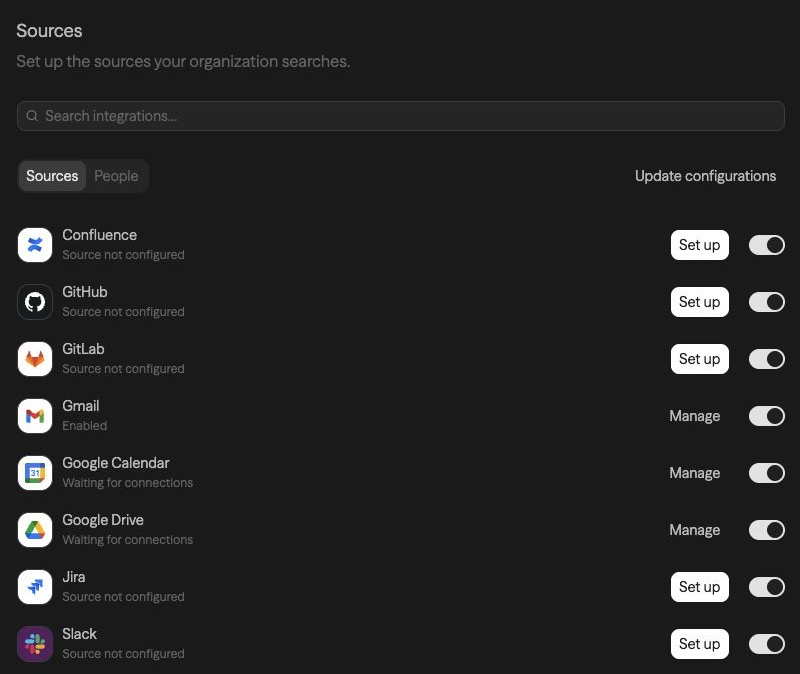
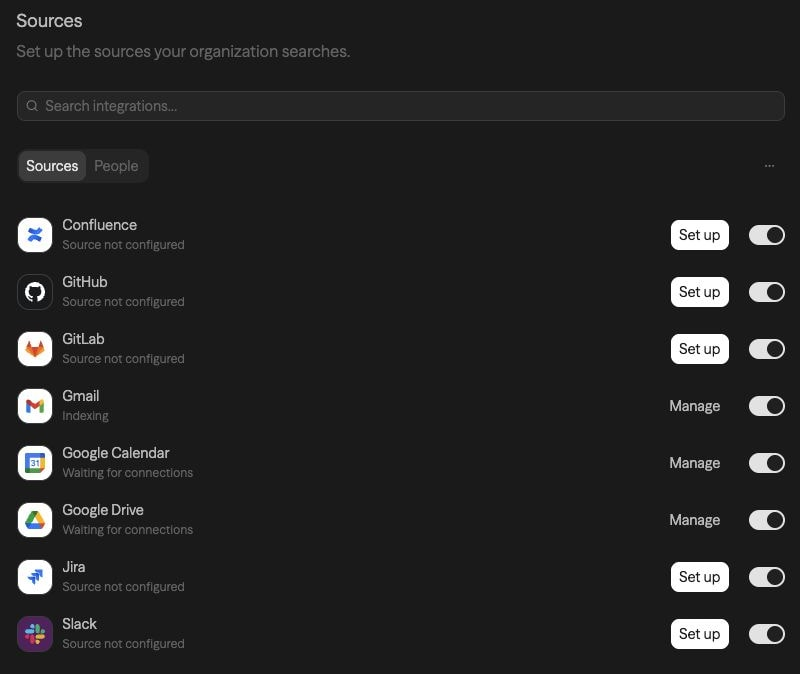
fix(search): clarify source settings and permission updates

diff --git a/apps/sim/app/o/[organizationId]/settings/components/integrations/organization-integrations-settings.test.tsx b/apps/sim/app/o/[organizationId]/settings/components/integrations/organization-integrations-settings.test.tsx
@@ -13,6 +13,8 @@ const mocks = vi.hoisted(() => ({
   refetch: vi.fn(),
   update: vi.fn(),
   updatePending: false,
+  updateError: null as Error | null,
+  resetUpdate: vi.fn(),
 }))
 vi.mock('@/app/o/[organizationId]/providers/organization-provider', () => ({
   useOrganizationContext: mocks.context,
@@ -23,7 +25,12 @@ vi.mock(
 )
 vi.mock('@/hooks/queries/organization-accounts', () => ({
   useOrganizationAccounts: mocks.accounts,
-  useUpdateOrganizationAccounts: () => ({ mutate: mocks.update, isPending: mocks.updatePending }),
+  useUpdateOrganizationAccounts: () => ({
+    mutate: mocks.update,
+    isPending: mocks.updatePending,
+    error: mocks.updateError,
+    reset: mocks.resetUpdate,
+  }),
   useOrganizationAccountPeople: mocks.people,
   useInviteOrganizationAccountPeople: () => ({ mutateAsync: mocks.invite, reset: vi.fn() }),
   useResendOrganizationAccountInvitation: () => ({}),
@@ -42,6 +49,7 @@ describe('organization integration invitations', () => {
     vi.spyOn(toast, 'success').mockReturnValue('toast-id')
     vi.spyOn(toast, 'error').mockReturnValue('toast-id')
     mocks.updatePending = false
+    mocks.updateError = null
     vi.stubGlobal('IS_REACT_ACT_ENVIRONMENT', true)
     mocks.context.mockReturnValue({ organization: { id: 'org-a' }, viewer: { isAdmin: true } })
     mocks.accounts.mockReturnValue({
@@ -85,7 +93,7 @@ describe('organization integration invitations', () => {
 
   function findButton(label: string) {
     const button = Array.from(document.querySelectorAll('button')).find(
-      (element) => element.textContent === label
+      (element) => element.textContent === label || element.getAttribute('aria-label') === label
     )
     if (!button) throw new Error(`Missing ${label} button`)
     return button
@@ -93,6 +101,19 @@ describe('organization integration invitations', () => {
 
   async function click(label: string) {
     await act(async () => findButton(label).click())
+  }
+
+  async function openRefresh() {
+    expect(container.textContent).not.toContain('Update configurations')
+    await act(async () =>
+      findButton('More source actions').dispatchEvent(
+        new MouseEvent('pointerdown', { bubbles: true, button: 0 })
+      )
+    )
+    const item = document.querySelector<HTMLElement>('[role="menuitem"]')
+    expect(item?.textContent).toBe('Refresh connection settings')
+    await act(async () => item?.click())
+    expect(document.body.textContent).toContain('Affected accounts will need to reconnect.')
   }
 
   it('keeps provider setup as the default and sends manual invitations from People to this org', async () => {
@@ -124,7 +145,7 @@ describe('organization integration invitations', () => {
     expect(document.querySelector('[role="dialog"]')).toBeNull()
   })
 
-  it('refreshes saved provider identities from Sources and reports the outcome', async () => {
+  it('refreshes saved provider identities only after choosing the maintenance action and confirming', async () => {
     mocks.accounts.mockReturnValue({
       data: {
         credentialGroup: {
@@ -151,7 +172,8 @@ describe('organization integration invitations', () => {
     })
     mocks.update.mockImplementationOnce((_input, { onSuccess }) => onSuccess())
     await render()
-    await click('Update configurations')
+    await openRefresh()
+    await click('Refresh')
     expect(mocks.update).toHaveBeenCalledWith(
       {
         organizationId: 'org-a',
@@ -176,24 +198,32 @@ describe('organization integration invitations', () => {
       },
       expect.any(Object)
     )
-    expect(toast.success).toHaveBeenCalledWith('Provider configurations updated')
+    expect(toast.success).toHaveBeenCalledWith('Connection settings refreshed')
 
-    mocks.update.mockImplementationOnce((_input, { onError }) =>
-      onError(new Error('Update denied'))
-    )
-    await click('Update configurations')
-    expect(toast.error).toHaveBeenCalledWith('Update denied')
-
-    mocks.updatePending = true
-    await render()
-    expect(findButton('Update configurations')).toBeDisabled()
-    await click('Update configurations')
-    expect(mocks.update).toHaveBeenCalledTimes(2)
+    expect(document.querySelector('[role="dialog"]')).toBeNull()
   })
 
-  it('does not offer a configuration update without saved providers', async () => {
+  it('keeps failed refreshes open for retry and blocks duplicate submissions', async () => {
+    mocks.accounts.mockReturnValue({
+      data: { credentialGroup: { id: 'group-a', options: [{ provider: 'gmail' }] } },
+      error: null,
+    })
     await render()
-    expect(container.textContent).not.toContain('Update configurations')
+    await openRefresh()
+    await click('Refresh')
+    mocks.updateError = new Error('Update denied')
+    await render()
+    expect(document.body.textContent).toContain('Update denied')
+    expect(document.querySelector('[role="dialog"]')).not.toBeNull()
+    mocks.updatePending = true
+    await render()
+    expect(findButton('Refresh')).toBeDisabled()
+    expect(mocks.update).toHaveBeenCalledOnce()
+  })
+
+  it('does not offer maintenance without saved providers', async () => {
+    await render()
+    expect(container.querySelector('[aria-label="More source actions"]')).toBeNull()
   })
 
   it('opens People directly from the saved URL', async () => {

diff --git a/apps/sim/app/api/auth/oauth/credentials/route.test.ts b/apps/sim/app/api/auth/oauth/credentials/route.test.ts
@@ -38,6 +38,7 @@ vi.mock('@/lib/workspaces/permissions/utils', () => permissionsMock)
 
 vi.mock('@/lib/permission-groups/config-scope.server', () => permissionGroupScopeMock)
 
+import { getCanonicalScopesForProvider, getMissingRequiredScopes } from '@/lib/oauth/utils'
 import { DEFAULT_PERMISSION_GROUP_CONFIG } from '@/lib/permission-groups/fields'
 import { GET } from '@/app/api/auth/oauth/credentials/route'
 
@@ -144,6 +145,100 @@ describe('OAuth Credentials API Route', () => {
 
     expect(response.status).toBe(200)
     await expect(response.json()).resolves.toEqual({ credentials: [] })
+  })
+
+  describe.each(['list', 'detail'] as const)('OAuth grant scopes in %s responses', (mode) => {
+    const workspaceId = '3f1c8a54-1c2e-4a1b-9d6e-2b7c5a9f0e11'
+
+    beforeEach(() => {
+      hybridAuthMockFns.mockCheckSessionOrInternalAuth.mockReset().mockResolvedValue({
+        success: true,
+        userId: 'user-123',
+        authType: 'session',
+      })
+      permissionsMockFns.mockCheckWorkspaceAccess.mockResolvedValue({
+        exists: true,
+        hasAccess: true,
+        canWrite: true,
+        canAdmin: true,
+      })
+      permissionGroupScopeMockFns.mockResolvePermissionGroupConfig.mockResolvedValue(
+        DEFAULT_PERMISSION_GROUP_CONFIG
+      )
+    })
+
+    async function requestCredential(providerId: string, scope: string | null) {
+      const row = {
+        id: 'credential-1',
+        workspaceId,
+        type: 'oauth',
+        displayName: 'Connected account',
+        providerId,
+        accountId: 'account-1',
+        scope,
+        updatedAt: new Date('2026-01-01T00:00:00Z'),
+        accountProviderId: providerId,
+        accountScope: scope,
+        accountUpdatedAt: new Date('2026-01-01T00:00:00Z'),
+      }
+      if (mode === 'detail') {
+        dbChainMockFns.limit.mockResolvedValueOnce([row])
+      } else {
+        dbChainMockFns.where.mockResolvedValueOnce([row]).mockResolvedValueOnce([])
+      }
+      const query =
+        mode === 'detail'
+          ? '?credentialId=credential-1'
+          : `?provider=${providerId}&workspaceId=${workspaceId}`
+      const response = await GET(createMockRequestWithQuery('GET', query))
+      expect(response.status).toBe(200)
+      const data = await response.json()
+      expect(data.credentials).toHaveLength(1)
+      return data.credentials[0]
+    }
+
+    it.each([null, '', ' \t\n '])(
+      'does not synthesize a Confluence grant from missing scope metadata %j',
+      async (scope) => {
+        const credential = await requestCredential('confluence', scope)
+
+        expect(credential.scopes).toEqual([])
+        expect(
+          getMissingRequiredScopes(credential, getCanonicalScopesForProvider('confluence'))
+        ).toContain('read:group:confluence')
+      }
+    )
+
+    it('preserves the actual older Confluence grant and identifies missing group access', async () => {
+      const requiredScopes = getCanonicalScopesForProvider('confluence')
+      const previousGrant = requiredScopes.filter((scope) => scope !== 'read:group:confluence')
+      const credential = await requestCredential('confluence', previousGrant.join(','))
+
+      expect(credential.scopes).toEqual(previousGrant)
+      expect(getMissingRequiredScopes(credential, requiredScopes)).toEqual([
+        'read:group:confluence',
+      ])
+    })
+
+    it('preserves a complete Confluence grant without requesting another update', async () => {
+      const grantedScopes = getCanonicalScopesForProvider('confluence')
+      const credential = await requestCredential('confluence', grantedScopes.join(' '))
+
+      expect(credential.scopes).toEqual(grantedScopes)
+      expect(getMissingRequiredScopes(credential, grantedScopes)).toEqual([])
+    })
+
+    it.each([null, '', ' \t\n '])(
+      'preserves the Box omitted-scope fallback for %j',
+      async (scope) => {
+        const credential = await requestCredential('box', scope)
+        const requiredScopes = getCanonicalScopesForProvider('box')
+
+        expect(requiredScopes.length).toBeGreaterThan(0)
+        expect(credential.scopes).toEqual(requiredScopes)
+        expect(getMissingRequiredScopes(credential, requiredScopes)).toEqual([])
+      }
+    )
   })
 
   /** The session/executor split documented on {@link integrationsWithheldFromSession} in the route. */

diff --git a/apps/sim/app/o/[organizationId]/settings/components/integrations/organization-integrations-settings.tsx b/apps/sim/app/o/[organizationId]/settings/components/integrations/organization-integrations-settings.tsx
@@ -1,11 +1,13 @@
 'use client'
 
-import { Chip, ChipSwitch, toast } from '@sim/emcn'
+import { useState } from 'react'
+import { Chip, ChipConfirmModal, ChipModalError, ChipSwitch, toast } from '@sim/emcn'
 import { useQueryState } from 'nuqs'
 import { getOrganizationAccountUpdateOptions } from '@/lib/credential-groups/organization-account-options'
 import { useOrganizationContext } from '@/app/o/[organizationId]/providers/organization-provider'
 import { OrganizationIntegrationsSetup } from '@/app/o/[organizationId]/settings/components/integrations/organization-integrations-setup'
 import { organizationIntegrationsTabParam } from '@/app/o/[organizationId]/settings/components/integrations/search-params'
+import { RowActionsMenu } from '@/app/workspace/[workspaceId]/settings/components/row-actions-menu'
 import {
   SettingsEmptyState,
   SettingsQueryErrorState,
@@ -24,8 +26,9 @@ export function OrganizationIntegrationsSettings() {
   )
   const accounts = useOrganizationAccounts(viewer.isAdmin ? organization.id : undefined)
   const update = useUpdateOrganizationAccounts()
+  const [refreshOpen, setRefreshOpen] = useState(false)
   const group = accounts.data?.credentialGroup
-  const updateConfigurations = () => {
+  const refreshConnections = () => {
     if (!group || update.isPending) return
     update.mutate(
       {
@@ -34,8 +37,10 @@ export function OrganizationIntegrationsSettings() {
         update: { options: getOrganizationAccountUpdateOptions(group) },
       },
       {
-        onSuccess: () => toast.success('Provider configurations updated'),
-        onError: (error) => toast.error(error.message),
+        onSuccess: () => {
+          setRefreshOpen(false)
+          toast.success('Connection settings refreshed')
+        },
       }
     )
   }
@@ -54,11 +59,32 @@ export function OrganizationIntegrationsSettings() {
           ]}
         />
         {tab === 'providers' && !accounts.error && group && group.options.length > 0 && (
-          <Chip disabled={update.isPending} onClick={updateConfigurations}>
-            Update configurations
-          </Chip>
+          <RowActionsMenu
+            label='More source actions'
+            actions={[
+              {
+                label: 'Refresh connection settings',
+                disabled: update.isPending,
+                onSelect: () => {
+                  update.reset()
+                  setRefreshOpen(true)
+                },
+              },
+            ]}
+          />
         )}
       </div>
+      <ChipConfirmModal
+        open={refreshOpen}
+        onOpenChange={(open) => {
+          if (!update.isPending) setRefreshOpen(open)
+        }}
+        title='Refresh connection settings?'
+        text='Apply the latest sign-in settings to all integrations. Affected accounts will need to reconnect.'
+        confirm={{ label: 'Refresh', pending: update.isPending, onClick: refreshConnections }}
+      >
+        <ChipModalError>{update.error?.message}</ChipModalError>
+      </ChipConfirmModal>
       {tab === 'providers' && <OrganizationIntegrationsSetup />}
       {tab === 'people' && (
         <OrganizationAccountPeople

diff --git a/apps/sim/app/o/[organizationId]/settings/integrations/providers/[connectorType]/provider-detail.tsx b/apps/sim/app/o/[organizationId]/settings/integrations/providers/[connectorType]/provider-detail.tsx
@@ -1,7 +1,7 @@
 'use client'
 
 import { useState } from 'react'
-import { ChipConfirmModal, ChipLink, ChipModalError, ChipSwitch } from '@sim/emcn'
+import { ChipConfirmModal, ChipModalError, ChipSwitch } from '@sim/emcn'
 import { ArrowLeft, Plus } from '@sim/emcn/icons'
 import { format } from 'date-fns'
 import { useRouter } from 'next/navigation'
@@ -367,11 +367,6 @@ export function OrganizationProviderDetail({ connectorType }: OrganizationProvid
                       : 'Add a source to set up account connections.'
                   : 'Activate this integration to set up account connections.'}
               </SettingsEmptyState>
-              {automaticSetup && approved && (
-                <ChipLink href={organizationRoutes(organization.id).integrations}>
-                  Open Integrations
-                </ChipLink>
-              )}
             </SettingsPanel>
           )
         ) : (

diff --git a/apps/sim/app/api/auth/oauth/credentials/route.ts b/apps/sim/app/api/auth/oauth/credentials/route.ts
@@ -35,13 +35,15 @@ function toCredentialResponse(
   credentialType: 'oauth' | 'service_account' = 'oauth'
 ) {
   const storedScope = scope?.trim()
-  // Some providers (e.g. Box) don't return scopes in their token response,
-  // so the DB column stays empty. Fall back to the configured scopes for
-  // the provider so the credential-selector doesn't show a false
-  // "Additional permissions required" banner.
+  /**
+   * Confluence reports granted scopes, so absent metadata must prompt reauthorization.
+   * Preserve the existing fallback for providers that omit scopes, such as Box.
+   */
   const scopes = storedScope
     ? storedScope.split(/[\s,]+/).filter(Boolean)
-    : getCanonicalScopesForProvider(providerId)
+    : providerId === 'confluence'
+      ? []
+      : getCanonicalScopesForProvider(providerId)
   const [_, featureType = 'default'] = providerId.split('-')
 
   return {

diff --git a/apps/sim/app/o/[organizationId]/settings/integrations/providers/[connectorType]/provider-detail.test.tsx b/apps/sim/app/o/[organizationId]/settings/integrations/providers/[connectorType]/provider-detail.test.tsx
@@ -234,9 +234,8 @@ describe('organization provider management', () => {
       )
       expect(container.textContent).not.toContain('Add source')
       expect(container.textContent).not.toContain('Add sync configuration')
-      expect(container.querySelector('a[href="/o/org-one/integrations"]')).toHaveTextContent(
-        'Open Integrations'
-      )
+      expect(container.querySelector('a[href="/o/org-one/integrations"]')).toBeNull()
+      expect(container.textContent).not.toContain('Open Integrations')
       expect(mocks.sources).toHaveBeenCalledWith(
         expect.any(Object),
         expect.objectContaining({ enabled: false })

diff --git a/apps/sim/lib/credential-groups/service.ts b/apps/sim/lib/credential-groups/service.ts
@@ -307,7 +307,7 @@ export async function ensureWorkspaceAccountsGroup(
           throw new OrchestrationError(
             'validation',
             scope.kind === 'organization'
-              ? `Update ${preparedOption.label} using Update configurations in organization settings before connecting this source`
+              ? `Update ${preparedOption.label} using More > Refresh connection settings in Sources before connecting this source`
               : `Update ${preparedOption.label} in Connected accounts before connecting this source`
           )
         }
